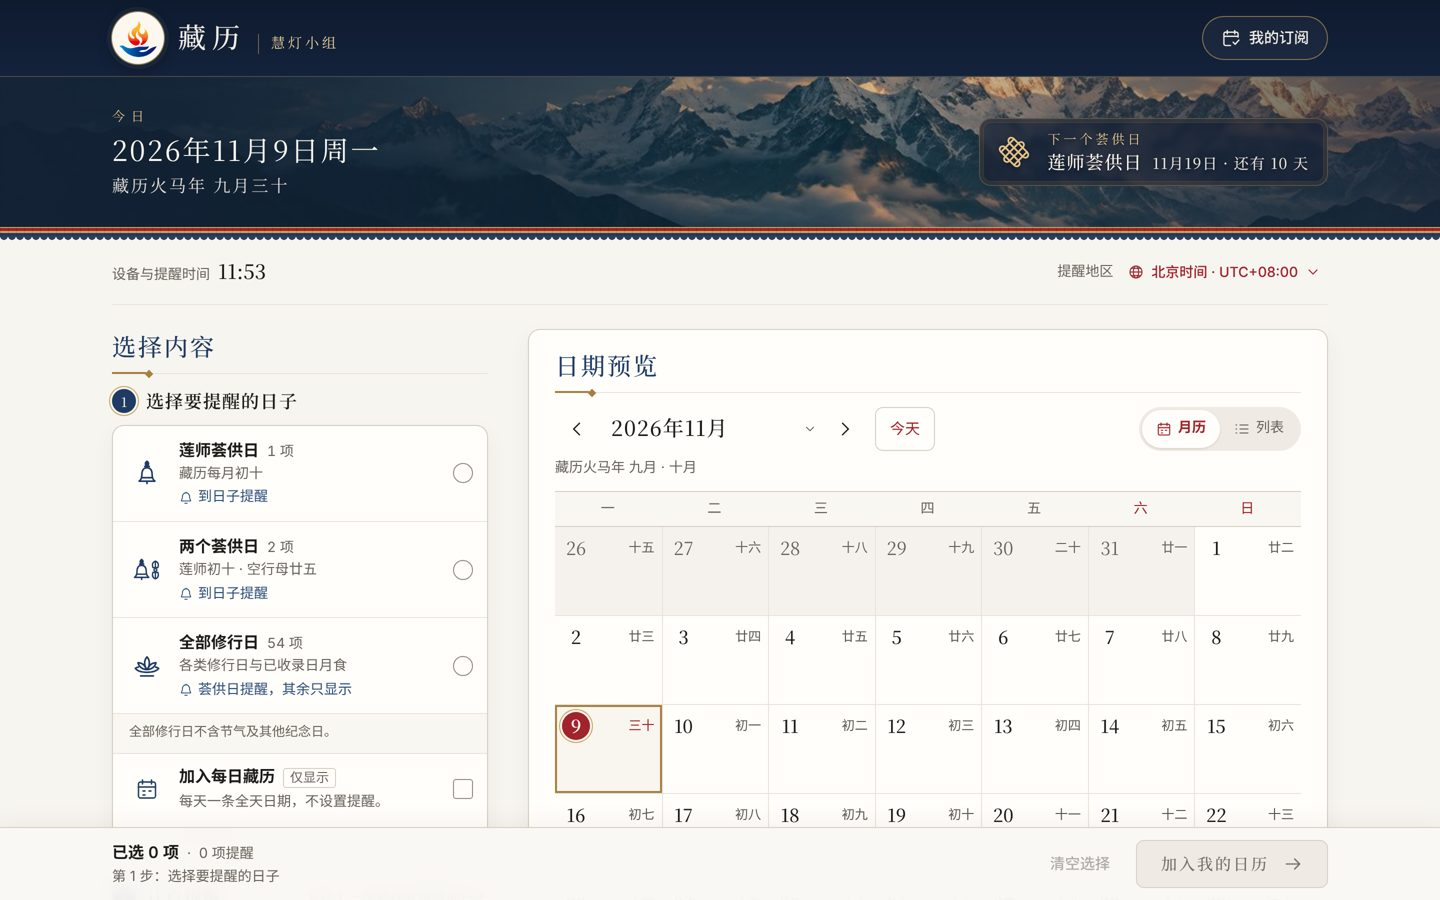
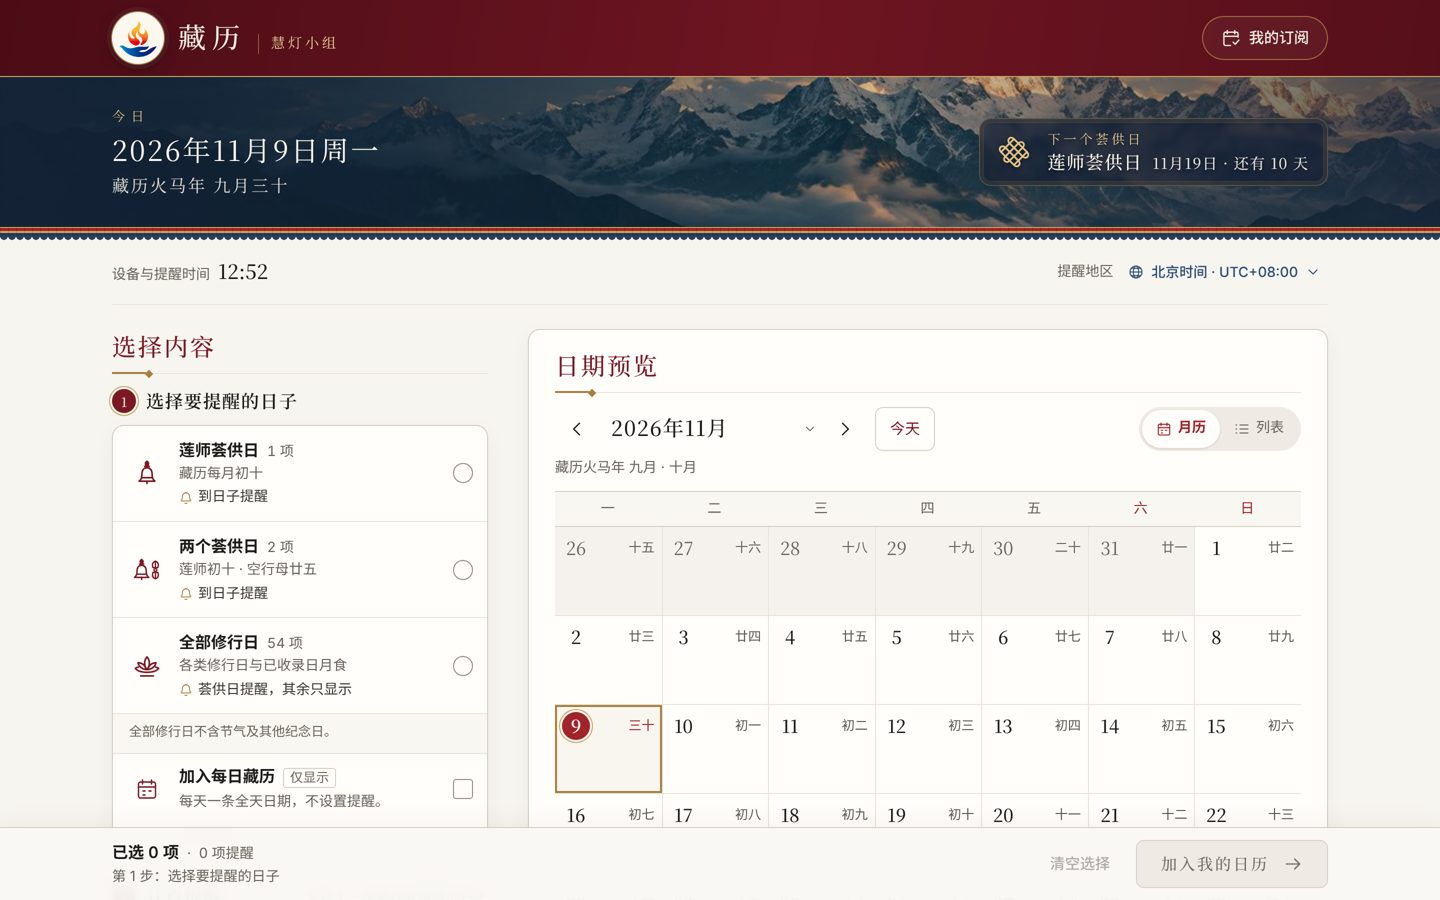
Wine-red identity over the clean palette; directional and cause-effect motion
- 绛红 (#7a1824) becomes the identity colour: flat header with one gold
  hairline, headings, step numbers, icons and the current tab. Carmine stays
  for actions/selection/reminders; lapis is kept for the snow-range night sky,
  text links and sync status.
- Phone tabs slide in from their side; labels newly added to the same month
  fade in after a selection change; the main button pulses once the first
  time it becomes usable. All respect reduced motion.

Claude-Session: https://claude.ai/code/session_01HRbMdR98QbwhPzSvc6gDMC

diff --git a/static/calendar-reminders/style.css b/static/calendar-reminders/style.css
@@ -1,8 +1,9 @@
 /* 慧灯藏历 · 正式样式 — 雪域经卷
    A clean warm-white page, the way a pecha is printed on fresh paper, with
    the three colours of thangka mounting used by role, never decoration:
-   胭脂红 carmine = action, selection, reminders · 青金 lapis = structure and
-   headings · 古金 gold = hairlines and ornament only (never body text).
+   绛红 wine = identity: header, headings, steps, icons (怀业, the Nyingma red)
+   胭脂红 carmine = action, selection, reminders · 青金 lapis = the night sky
+   over the snow range, links and sync status · 古金 gold = hairlines only.
    Neutrals are warm greys with almost no chroma, so nothing reads as
    stained or muddy; depth comes from soft shadow, not borders or texture. */
 :root {
@@ -12,6 +13,7 @@
   --ink: #1d1b18; --ink-2: #3a3631; --muted: #67625a;
   --line: #e8e3da; --line-2: #d7cfc2; --control: #938a7d;
   --red: #a1232b; --red-2: #861a21; --red-tint: #f8ecea; --red-tint-2: #f0d9d6;
+  --wine: #7a1824; --wine-2: #5e111b;
   --gold: #a5803f; --gold-2: #c9a764; --gold-tint: #f6efe0;
   --teal: #1f3a63; --teal-2: #2e4d7a; --teal-tint: #edf1f7;
   --focus: #a1232b;
@@ -88,9 +90,9 @@ button:disabled { cursor: default; }
   display: flex; align-items: center; justify-content: space-between; gap: 16px;
   padding: 12px max(32px, calc((100vw - 1216px) / 2));
   position: relative;
-  /* Night sky over the snow range: one deep lapis field and a gold hairline. */
-  background: linear-gradient(180deg, #0e1a2e, #13223b);
-  color: #f3ead8; border-bottom: 1px solid #c9a76455;
+  /* 绛红 field, clean and flat (no twig texture), finished by one gold hairline. */
+  background: linear-gradient(100deg, #4a0c15, #6d1521 55%, #560f19);
+  color: #f6ead6; border-bottom: 1px solid #c9a764; box-shadow: 0 1px 0 #4a0c15;
 }
 .heading { display: flex; align-items: center; min-width: 0; }
 .brand { display: flex; align-items: center; gap: 14px; color: #f3ead8; text-decoration: none; flex: none; }
@@ -151,12 +153,12 @@ main { max-width: 1280px; min-height: calc(100svh - var(--header-space)); margin
 .section-heading::after { content: ""; position: absolute; left: 0; bottom: -1px; width: 34px; height: 2px; background: var(--gold); }
 /* A small jewel (诺布) caps the rule — the same lozenge used across Tibetan borders. */
 .section-heading::before { content: ""; position: absolute; left: 34px; bottom: -4px; width: 6px; height: 6px; background: var(--gold); transform: rotate(45deg); }
-.section-heading h2 { font: 500 var(--fs-2xl)/1.4 var(--font-serif); letter-spacing: 2px; color: var(--teal); }
+.section-heading h2 { font: 500 var(--fs-2xl)/1.4 var(--font-serif); letter-spacing: 2px; color: var(--wine); }
 
 /* ── Quick presets + daily dates ──────────────────────────────────────── */
 .quick-section { margin-bottom: 8px; }
 .quick-heading { display: flex; align-items: baseline; justify-content: space-between; gap: 4px; margin-bottom: 10px; }
-.quick-heading h3, .category-heading h3 { display: flex; align-items: center; gap: 8px; font: 600 var(--fs-base)/1.5 var(--font-serif); letter-spacing: 2px; color: var(--teal); }
+.quick-heading h3, .category-heading h3 { display: flex; align-items: center; gap: 8px; font: 600 var(--fs-base)/1.5 var(--font-serif); letter-spacing: 2px; color: var(--wine); }
 .quick-heading h3::before, .category-heading h3::before { content: ""; flex: none; width: 5px; height: 5px; background: var(--gold); transform: rotate(45deg); }
 .quick-heading>span { font-size: var(--fs-sm); color: var(--muted); }
 .quick-panel { border: 1px solid var(--line-2); border-radius: var(--r); background: var(--surface); overflow: hidden; }
@@ -172,21 +174,21 @@ main { max-width: 1280px; min-height: calc(100svh - var(--header-space)); margin
 .preset-card:focus-visible { z-index: 1; outline-offset: -3px; }
 .preset-card[aria-pressed=true] { background: var(--red-tint); }
 .preset-card[aria-pressed=true]::before { transform: scaleY(1); }
-.preset-icon { display: grid; place-items: center; flex: none; width: 36px; height: 36px; color: var(--teal); }
+.preset-icon { display: grid; place-items: center; flex: none; width: 36px; height: 36px; color: var(--wine); }
 .preset-icon .icon { width: 28px; height: 28px; stroke-width: 1.4; }
 .preset-card[aria-pressed=true] .preset-icon { color: var(--red); }
 .preset-copy { display: flex; flex: 1; min-width: 0; flex-direction: column; gap: 1px; }
 .preset-copy strong { display: flex; align-items: baseline; flex-wrap: wrap; gap: 8px; font-size: var(--fs-base); font-weight: 600; line-height: 1.5; }
 .preset-copy strong small { font-size: var(--fs-sm); font-weight: 400; color: var(--muted); font-variant-numeric: tabular-nums; }
 .preset-copy>span { font-size: var(--fs-sm); line-height: 1.6; color: var(--muted); }
-.preset-copy em { font-size: var(--fs-sm); line-height: 1.6; font-style: normal; color: var(--teal-2); }
+.preset-copy em { font-size: var(--fs-sm); line-height: 1.6; font-style: normal; color: var(--ink-2); }
 .preset-check { display: grid; place-items: center; flex: none; width: 20px; height: 20px; border: 1.5px solid var(--control); border-radius: 50%; color: #fdf9f4; }
 .preset-card[aria-pressed=true] .preset-check { background: var(--red); border-color: var(--red); box-shadow: 0 0 0 2px var(--red-tint), 0 0 0 3px var(--gold-2); }
 .preset-check .icon { width: 13px; height: 13px; stroke-width: 2.2; }
 .preset-scope-note { padding: 8px 16px 10px; border-top: 1px solid var(--line); font-size: var(--fs-xs); line-height: 1.6; color: var(--muted); background: var(--surface-2); }
 .daily-date-option { padding: 4px 14px 0 16px; border-top: 1px solid var(--line); }
 .daily-date-option .event-label { align-items: center; gap: 14px; min-height: 60px; padding: 6px 0; }
-.daily-date-icon { display: grid; place-items: center; flex: 0 0 36px; width: 36px; color: var(--teal); }
+.daily-date-icon { display: grid; place-items: center; flex: 0 0 36px; width: 36px; color: var(--wine); }
 .daily-date-icon .icon { width: 24px; height: 24px; stroke-width: 1.4; }
 .daily-date-copy { flex: 1; }
 .daily-date-title-row { display: flex; flex-wrap: wrap; align-items: baseline; gap: 3px 8px; }
@@ -213,8 +215,8 @@ main { max-width: 1280px; min-height: calc(100svh - var(--header-space)); margin
 .group-card>summary:hover { background: var(--surface-2); }
 .group-card[open] { background: var(--surface); }
 .group-card>summary { transition: box-shadow .2s, background-color .15s; }
-.group-card[open]>summary { box-shadow: inset 3px 0 var(--teal); }
-.group-icon { display: grid; place-items: center; flex: none; width: 36px; height: 36px; color: var(--teal); }
+.group-card[open]>summary { box-shadow: inset 3px 0 var(--wine); }
+.group-icon { display: grid; place-items: center; flex: none; width: 36px; height: 36px; color: var(--wine); }
 .group-icon .icon { width: 26px; height: 26px; stroke-width: 1.4; }
 .group-name { flex: 1; min-width: 0; overflow-wrap: anywhere; }
 .group-name strong { display: block; font-size: var(--fs-base); font-weight: 500; color: var(--ink); }
@@ -309,7 +311,7 @@ legend { padding: 0 0 10px; font-size: var(--fs-md); color: var(--muted); }
 .device-options legend { grid-column: 1/-1; display: flex; align-items: center; gap: 9px; padding-bottom: 12px; font-size: var(--fs-lg); font-weight: 600; color: var(--ink); }
 .device-options small { display: block; margin-top: 2px; font-size: var(--fs-xs); line-height: 1.5; color: var(--muted); }
 .device-options label:has(input:checked) small { color: var(--red); }
-.device-options label>.icon, .device-options label>[data-icon] { color: var(--teal); }
+.device-options label>.icon, .device-options label>[data-icon] { color: var(--wine); }
 .device-options label:has(input:checked)>[data-icon] { color: var(--red); }
 .reminder-row { display: grid; grid-template-columns: minmax(0,1fr) minmax(0,1fr) 44px; gap: 10px; align-items: end; margin: 14px 0; }
 .reminder-row label, .url-label { display: block; font-size: var(--fs-md); color: var(--muted); }
@@ -381,7 +383,7 @@ input[type=time]::-webkit-datetime-edit { padding: 0; }
   .region-bar { margin-bottom: 4px; }
   .mobile-tabs { position: sticky; top: 0; z-index: 8; isolation: isolate; display: flex; gap: 28px; margin-bottom: 14px; border-bottom: 1px solid var(--line-2); background: var(--paper); box-shadow: 0 8px 12px -10px #46351726; }
   .mobile-tabs button { min-height: 46px; padding: 8px 2px; border: 0; border-bottom: 2px solid transparent; margin-bottom: -1px; background: transparent; color: var(--muted); font: var(--fs-base)/1.4 var(--font-serif); letter-spacing: 2px; transition: none; }
-  .mobile-tabs button[aria-selected=true] { border-bottom-color: var(--teal); color: var(--teal); font-weight: 600; }
+  .mobile-tabs button[aria-selected=true] { border-bottom-color: var(--wine); color: var(--wine); font-weight: 600; }
   .selection-heading, .preview-heading { display: none; }
   .preview-panel { padding: 14px 14px 0; }
   .action-bar { padding-inline: 24px; }
@@ -490,7 +492,7 @@ input[type=time]::-webkit-datetime-edit { padding: 0; }
 }
 
 /* ── Three steps (simple path) + 详细设置 (detailed path) ─────────────── */
-.step-no { display: inline-grid; place-items: center; flex: none; width: 24px; height: 24px; border-radius: 50%; background: var(--teal); color: #f6efe0; font: 500 13px/1 var(--font-num); letter-spacing: 0; box-shadow: 0 0 0 2px var(--paper), 0 0 0 3px var(--gold-2); }
+.step-no { display: inline-grid; place-items: center; flex: none; width: 24px; height: 24px; border-radius: 50%; background: var(--wine); color: #f6efe0; font: 500 13px/1 var(--font-num); letter-spacing: 0; box-shadow: 0 0 0 2px var(--paper), 0 0 0 3px var(--gold-2); }
 .quick-heading h3:has(.step-no)::before { display: none; }
 .quick-heading h3:has(.step-no) { gap: 10px; font-size: var(--fs-lg); letter-spacing: 1px; color: var(--ink); }
 .step-time, .step-add { margin-top: 22px; }
@@ -508,15 +510,15 @@ input[type=time]::-webkit-datetime-edit { padding: 0; }
 .advanced-settings>summary { display: flex; align-items: center; gap: 12px; min-height: 64px; padding: 10px 4px; list-style: none; color: var(--ink); }
 .advanced-settings>summary::-webkit-details-marker { display: none; }
 .advanced-settings>summary>span:nth-child(2) { flex: 1; min-width: 0; }
-.advanced-settings>summary strong { display: block; font: 600 var(--fs-base)/1.5 var(--font-serif); letter-spacing: 2px; color: var(--teal); }
+.advanced-settings>summary strong { display: block; font: 600 var(--fs-base)/1.5 var(--font-serif); letter-spacing: 2px; color: var(--wine); }
 .advanced-settings>summary small { display: block; font-size: var(--fs-sm); color: var(--muted); }
-.advanced-settings>summary>span:first-child { color: var(--teal); }
+.advanced-settings>summary>span:first-child { color: var(--wine); }
 .advanced-settings>summary .icon { transition: transform .2s; }
 .advanced-settings[open]>summary>span:last-child .icon { transform: rotate(180deg); }
 .advanced-settings>summary:hover { background: var(--surface-2); }
 .advanced-settings[open] .category-heading { margin-top: 4px; }
 .daily-calendar { margin-top: 20px; padding: 14px 16px; border: 1px solid var(--line); border-radius: var(--r); background: var(--surface-2); }
-.daily-calendar h3 { display: flex; align-items: center; gap: 8px; font: 600 var(--fs-base)/1.5 var(--font-serif); letter-spacing: 1px; color: var(--teal); }
+.daily-calendar h3 { display: flex; align-items: center; gap: 8px; font: 600 var(--fs-base)/1.5 var(--font-serif); letter-spacing: 1px; color: var(--wine); }
 .daily-calendar h3 .icon { width: 18px; height: 18px; }
 .daily-calendar p { margin: 6px 0 10px; font-size: var(--fs-sm); line-height: 1.7; color: var(--muted); }
 .daily-calendar .feed-actions { margin: 0; }
@@ -530,7 +532,7 @@ input[type=time]::-webkit-datetime-edit { padding: 0; }
   .time-choices strong { font-size: var(--fs-lg); }
 }
 
-.step-add-device { padding: 12px 14px; border: 1px solid var(--line-2); border-left: 3px solid var(--teal); border-radius: 0 var(--r) var(--r) 0; background: var(--surface); font-size: var(--fs-base); line-height: 1.7; color: var(--ink); }
+.step-add-device { padding: 12px 14px; border: 1px solid var(--line-2); border-left: 3px solid var(--wine); border-radius: 0 var(--r) var(--r) 0; background: var(--surface); font-size: var(--fs-base); line-height: 1.7; color: var(--ink); }
 #share-settings { margin-top: 4px; padding-left: 0; font-size: var(--fs-md); }
 .wechat-banner { display: flex; gap: 12px; align-items: flex-start; margin: 14px 0 0; padding: 12px 14px; border: 1px solid #d9c19a; border-left: 3px solid var(--gold); border-radius: 0 var(--r) var(--r) 0; background: var(--gold-tint); color: #45423b; }
 .wechat-banner .icon { margin-top: 3px; color: var(--gold); }
@@ -542,7 +544,7 @@ input[type=time]::-webkit-datetime-edit { padding: 0; }
 #subscribed-next { margin: 4px 0 2px 30px; font-size: var(--fs-md); line-height: 1.7; color: var(--ink-2); }
 #subscribed-open { margin-left: 22px; font-size: var(--fs-md); color: var(--teal); }
 .title-marks { margin: 20px 0 0; }
-.title-marks legend { padding-bottom: 8px; font: 600 var(--fs-base)/1.5 var(--font-serif); letter-spacing: 1px; color: var(--teal); }
+.title-marks legend { padding-bottom: 8px; font: 600 var(--fs-base)/1.5 var(--font-serif); letter-spacing: 1px; color: var(--wine); }
 .title-marks label { position: relative; display: flex; align-items: center; gap: 10px; min-height: 52px; padding: 8px 12px; border: 1px solid var(--line); border-radius: var(--r); background: var(--surface); cursor: pointer; }
 .title-marks label+label { margin-top: 6px; }
 .title-marks input { flex: none; width: 18px; height: 18px; margin: 0; accent-color: var(--red); }
@@ -566,7 +568,7 @@ input[type=time]::-webkit-datetime-edit { padding: 0; }
 
 /* ── Polish (11-09): reminder meta, undo, sync hint, quieter state changes ── */
 .preset-copy em { display: inline-flex; align-items: center; gap: 5px; }
-.preset-copy em .icon { width: 14px; height: 14px; flex: none; }
+.preset-copy em .icon { width: 14px; height: 14px; flex: none; color: var(--gold); }
 .toast:has(.toast-undo) { display: flex; align-items: center; gap: 14px; padding-right: 8px; text-align: left; }
 .toast-undo { flex: none; min-height: 36px; padding: 4px 12px; border: 1px solid #f9f6f155; border-radius: 18px; background: transparent; color: #f5d7a7; font: inherit; font-weight: 600; cursor: pointer; }
 .toast-undo:hover { background: #f9f6f114; }

diff --git a/static/calendar-reminders/calendar-view.css b/static/calendar-reminders/calendar-view.css
@@ -13,7 +13,7 @@
 .cal-toolbar { grid-area: nav; display: grid; grid-template-columns: 44px minmax(0,1fr) 44px auto; align-items: center; gap: 2px; min-width: 0; }
 .cal-arrow, .cal-today { display: flex; align-items: center; justify-content: center; min-width: 44px; min-height: 44px; padding: 8px; border: 1px solid transparent; border-radius: var(--r-sm); background: transparent; color: var(--ink); }
 .cal-arrow .icon { width: 20px; height: 20px; }
-.cal-today { margin-left: 6px; padding-inline: 14px; border-color: var(--line-2); color: var(--teal); font-size: var(--fs-md); }
+.cal-today { margin-left: 6px; padding-inline: 14px; border-color: var(--line-2); color: var(--wine); font-size: var(--fs-md); }
 @media (hover: hover) { .cal-arrow:hover:not(:disabled), .cal-today:hover:not(:disabled) { background: var(--red-tint); } }
 .cal-arrow:disabled { opacity: .35; }
 .cal-month-picker { position: relative; min-width: 0; }
@@ -74,13 +74,13 @@
 /* Day detail: an 经页 heading, then plain rows. */
 .cal-day-detail { margin-top: 20px; padding-top: 18px; border-top: 1px solid var(--line); }
 .cal-detail-heading { position: relative; margin-bottom: 6px; }
-.cal-detail-heading h3 { display: flex; align-items: baseline; flex-wrap: wrap; gap: 4px 10px; color: var(--teal); font: 500 21px/1.5 var(--font-serif); letter-spacing: 1px; }
+.cal-detail-heading h3 { display: flex; align-items: baseline; flex-wrap: wrap; gap: 4px 10px; color: var(--wine); font: 500 21px/1.5 var(--font-serif); letter-spacing: 1px; }
 .cal-detail-heading h3>span { color: var(--muted); font: 400 var(--fs-md)/1.5 var(--font-ui); letter-spacing: 0; }
 .cal-detail-heading>p { margin-top: 2px; color: var(--muted); font-size: var(--fs-sm); line-height: 1.7; overflow-wrap: anywhere; }
 .cal-event { min-width: 0; padding: 14px 0; border-bottom: 1px solid var(--line); }
 .cal-event:last-child { border-bottom: 0; }
 .cal-event-heading { display: grid; grid-template-columns: 32px minmax(0,1fr); align-items: start; gap: 12px; min-width: 0; }
-.cal-event-icon { display: grid; place-items: center; width: 32px; height: 32px; color: var(--teal); }
+.cal-event-icon { display: grid; place-items: center; width: 32px; height: 32px; color: var(--wine); }
 .cal-event-icon .icon { width: 26px; height: 26px; stroke-width: 1.4; }
 .cal-event-name { min-width: 0; }
 .cal-event h4 { margin: 0; color: var(--ink); font: 500 var(--fs-base)/1.6 var(--font-ui); overflow-wrap: anywhere; }

diff --git a/static/calendar-reminders/subscription-guide.css b/static/calendar-reminders/subscription-guide.css
@@ -93,7 +93,7 @@
 /* Redesign layer: quiet status before preparation, shared stage numerals. */
 .connection-status[data-prepared=false]{display:none}
 #entry-hint:empty{display:none}
-.guide-stage-number{background:var(--teal-tint,#efeeeb);color:var(--teal,#2f3e5a);font-family:var(--font-num,Georgia,serif)}
+.guide-stage-number{background:var(--red-tint,#f8ecea);color:var(--wine,#7a1824);font-family:var(--font-num,Georgia,serif)}
 .browser-handoff{background:var(--surface-2,#f6f3ee)}
 .guide-notifications{border-color:var(--line-2,#cdb894);border-radius:var(--r,6px)}
 .guide-add .secondary,.guide-check .secondary{border-radius:var(--r-sm,4px)}

diff --git a/docs/calendar-execution-plan.md b/docs/calendar-execution-plan.md
@@ -6,10 +6,12 @@
 
 用户要求：从产品、运维、开发、UI、HCI 综合评估后直接改；配色"又土又脏"，可大改；手机页不出现电脑说明；方案选中后应能再点取消；不做老人负担的提醒测试；大字模式不单独做。数据到期报警、每周健康检查和数据库导出由用户另行（GPT）完成，本轮不碰工作流。
 
-- 配色"雪域经卷"：暖白纸面、近黑墨色、几乎无彩度的暖灰；胭脂红`#a1232b`只用于操作/选中/提醒，青金`#1f3a63`用于结构、标题、步骤序号与文字链接，古金只做细线纹饰。页头改为青金夜色接雪山横幅，取消边玛墙竖纹与纸纹；圆角8/12/16，阴影取代多重内框。其余硬编码色值按 OKLCH 保亮度重映射到同一色系。
+- 配色（用户复审：保留蓝色版的干净感，但主调回到红——怀业、宁玛与中国文化尚红）：绛红`#7a1824`为身份色，用于页头、标题、步骤序号、图标与当前分页；胭脂红`#a1232b`只用于操作/选中/提醒；青金只留给雪山夜空横幅、文字链接与同步状态；古金做细线。页头为干净的绛红平面加一道金线，不再有竖纹。
+- 首版"雪域经卷"：暖白纸面、近黑墨色、几乎无彩度的暖灰；胭脂红`#a1232b`只用于操作/选中/提醒，青金`#1f3a63`用于结构、标题、步骤序号与文字链接，古金只做细线纹饰。页头改为青金夜色接雪山横幅，取消边玛墙竖纹与纸纹；圆角8/12/16，阴影取代多重内框。其余硬编码色值按 OKLCH 保亮度重映射到同一色系。
 - 字号：`--fs-*`阶梯（电脑13–28，手机正文17、最小14；月历内标签13/12 作标记）；衬线只用于≥18px标题与数字，小字用系统无衬线，避免 Windows 宋体发虚。
 - 引导：第3步按设备说一句话（触屏小屏一律按手机，绝不提电脑；标题手机"加入手机日历"、电脑"加入日历"）；新增"已经加过的不用再加，日历里出现两遍删一个"；微信提示补"已在浏览器加过的在浏览器打开即可"。底部状态行改为下一步/提醒时间（"第1步：选择要提醒的日子""提醒：当天 08:00""已保存，日历稍后自动更新"）。订阅卡与保存提示说明通知权限（设置里搜索"日历"）与几小时内更新——网页无法直接跳到系统通知设置。
 - 交互：已选方案再点一次即取消（与下方勾选一致），清空与取消都带"撤销"；手机首次选方案后平滑带到第2步；安卓默认选"其他日历"；电脑日期预览改为"底部对齐吸附"，长分类列表旁始终看得到月历；电脑左栏加宽到376px；方案卡改为"藏历每月初十 · 到日子提醒"等不重复信息。
+- 动效：手机分页按所在方向轻滑入；方案或提醒改变后，月历里新出现的日程标签淡入（翻月仍用原滑动，首次绘制不动）；主按钮第一次可用时轻轻一跳提示下一步，只一次；全部受“减少动态效果”控制。
 - 开发：本地预览服务每日创建上限改为1000（线上仍20），完整浏览器测试不再被限流；新增`docs/maintainer-handbook.md`一页接手手册。
 - 验证：`npm test` 161项、Chromium 浏览器测试71项通过；Firefox/WebKit 由 CI 运行。
 

diff --git a/docs/calendar-collaboration-handoff.md b/docs/calendar-collaboration-handoff.md
@@ -2,7 +2,7 @@
 
 更新：2026-11-05。这是已有产品的交接，不是从零建站需求。开始工作时重新读取仓库状态、执行计划及线上版本；不要将本文中的历史证据当成新修改已通过。
 
-2026-11-09补充：配色改为“雪域经卷”：暖白纸面、胭脂红（操作/选中/提醒）、青金（结构/标题/链接）、古金（细线纹饰）；中性色几乎无彩度，取消纸纹。字号统一用`--fs-*`阶梯，手机放大一级。人类接手维护看`docs/maintainer-handbook.md`。
+2026-11-09补充：配色：暖白纸面，绛红为身份色（页头/标题/步骤/图标），胭脂红（操作/选中/提醒），青金（雪山横幅/链接/同步状态），古金（细线纹饰）；中性色几乎无彩度，取消纸纹。字号统一用`--fs-*`阶梯，手机放大一级。人类接手维护看`docs/maintainer-handbook.md`。
 
 2026-11-08补充：样式改为一套设计变量（`style.css`顶部`:root`），新增颜色、阴影、字体请加变量而不是写色值；藏式元素（香布`--shambu`、八吉祥图标`icons.mjs`）均为代码绘制，不再新增独立装饰图片。日程标签只区分“提醒/仅显示”两色，分类靠图标与文字。佛慧法语资料更新请用`tools/calendar/fohui-diff.mjs`比对手动保存的月份页，不要整份重导或自动抓取。
 

diff --git a/docs/maintainer-handbook.md b/docs/maintainer-handbook.md
@@ -36,6 +36,6 @@
 
 ## 设计约定（改样式前读）
 
-- 颜色只用`static/calendar-reminders/style.css`顶部`:root`里的变量：胭脂红=操作/选中/提醒，青金=结构/标题/链接，古金=细线与纹饰（不做正文颜色），中性色是几乎无彩度的暖灰。
+- 颜色只用`static/calendar-reminders/style.css`顶部`:root`里的变量：绛红=身份（页头、标题、步骤、图标），胭脂红=操作/选中/提醒，青金=雪山横幅、文字链接、同步状态，古金=细线与纹饰（不做正文颜色），中性色是几乎无彩度的暖灰。
 - 字号只用`--fs-*`阶梯；手机自动放大一级，有意义的文字不小于 13px。
 - 新文字先想老年师兄能否一眼看懂：一句话说清下一步，少用“订阅”“同步”等术语。
